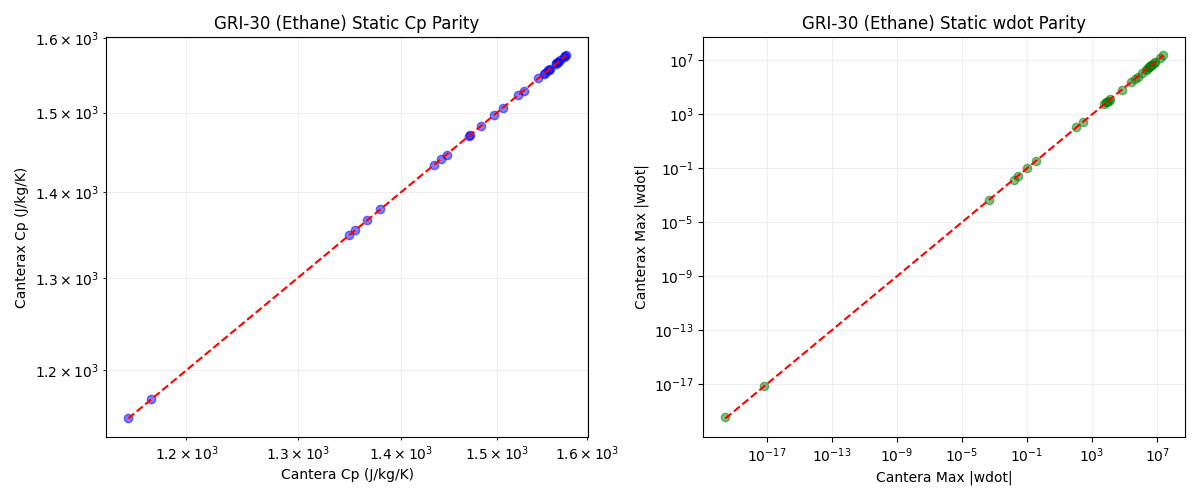
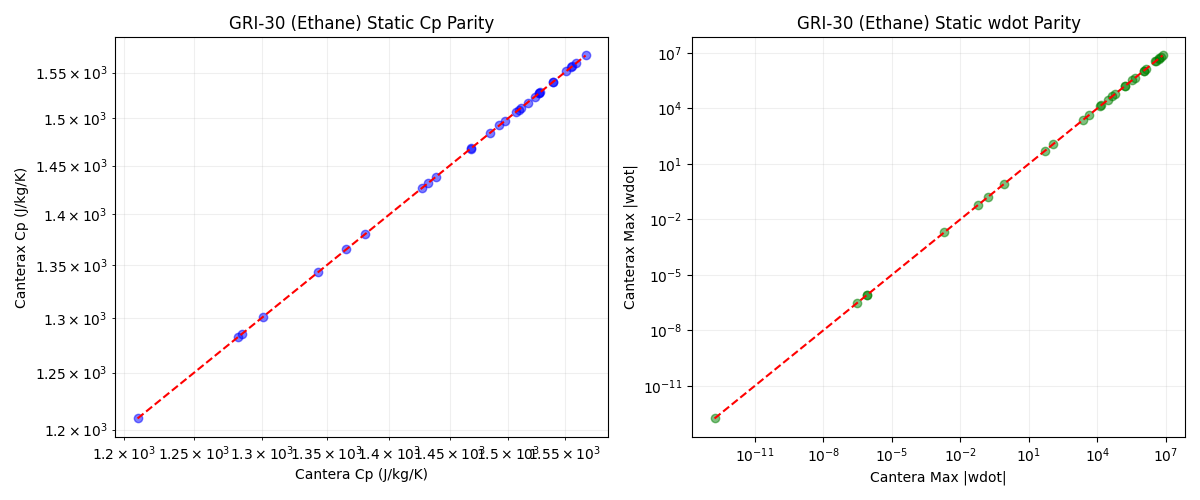
Fix: Lower concentration floor to reduce numerical noise in wdot and update validation plots

diff --git a/tests/trace_wdot_divergence.py b/tests/trace_wdot_divergence.py
@@ -1,0 +1,124 @@
+import os
+import sys
+import jax
+jax.config.update("jax_enable_x64", True)
+import jax.numpy as jnp
+import numpy as np
+import cantera as ct
+from tabulate import tabulate
+
+sys.path.append(os.path.abspath(os.path.join(os.path.dirname(__file__), "../src")))
+
+from canterax.loader import load_mechanism
+from canterax.solution import Solution
+from canterax.kinetics import compute_wdot
+
+def trace_divergence(mech_name, yaml_file, condition):
+    # Construct absolute path to yaml file if it's gri30.yaml which might not be local
+    if yaml_file == "gri30.yaml":
+        # Usually Cantera finds gri30.yaml automatically, but load_mechanism might need help if it uses strict paths
+        # But load_mechanism uses Cantera to parse, passing the string path.
+        pass
+
+    full_yaml_path = yaml_file
+    if not os.path.exists(full_yaml_path) and yaml_file == "gri30.yaml":
+        # Try to find where Cantera keeps it or just pass "gri30.yaml" assuming Cantera resolves it
+        # But load_mechanism might fail if it tries to open the file directly without Cantera's search path logic
+        # Let's hope load_mechanism handles "gri30.yaml" correctly (it uses ct.Solution)
+        pass
+
+    print(f"\n{'='*30}\nAnalyzing {mech_name}...\n{'='*30}")
+    
+    # Load
+    try:
+        sol_ct = ct.Solution(full_yaml_path)
+        mech_jt = load_mechanism(full_yaml_path)
+        sol_jt = Solution(full_yaml_path)
+    except Exception as e:
+        print(f"Failed to load mechanism: {e}")
+        return
+    
+    # Parse composition to dict to be safe
+    # But condition[2] is a string. Let's just pass it.
+    input_str = condition[2]
+    T, P = condition[0], condition[1]
+    
+    print(f"Setting CT state: {T} K, {P} Pa, {input_str}")
+    sol_ct.TPX = T, P, input_str
+    sol_jt.TPX = T, P, input_str
+
+    # Debug State
+    print(f"State: T={sol_ct.T:.1f} K, P={sol_ct.P:.1f} Pa")
+    h_idx = sol_ct.species_index("H") if "H" in sol_ct.species_names else -1
+    if h_idx >= 0:
+        print(f"H Y: {sol_ct.Y[h_idx]:.6e} X: {sol_ct.X[h_idx]:.6e}")
+        
+    wdot_jt, h_jt, cp_jt, rho_jt, _ = compute_wdot(sol_jt.T, sol_jt.P, sol_jt.Y, mech_jt)
+    wdot_ct = sol_ct.net_production_rates
+    
+    print(f"Max CT wdot: {np.max(np.abs(wdot_ct)):.6e}")
+    print(f"Max JT wdot: {np.max(np.abs(wdot_jt)):.6e}")
+    
+    # Check Thermo first
+    print(f"Thermo Check (Cp_mass):")
+    cp_ct = sol_ct.cp_mass
+    cp_err = abs(cp_ct - cp_jt) / cp_ct
+    print(f"  CT: {cp_ct:.6e}, JT: {cp_jt:.6e}, Rel Err: {cp_err:.2e}")
+    if cp_err > 1e-10:
+        print("  WARNING: High thermodynamic error!")
+
+    # Analyze wdot
+    table_data = []
+    headers = ["Species", "CT wdot", "JT wdot", "Abs Diff", "Rel Err"]
+    
+    max_rel_err = 0.0
+    
+    for k in range(sol_ct.n_species):
+        ct_val = wdot_ct[k]
+        jt_val = wdot_jt[k]
+        diff = abs(ct_val - jt_val)
+        
+        # Avoid division by zero
+        denom = max(abs(ct_val), 1e-25)
+        rel_err = diff / denom
+        
+        if rel_err > max_rel_err:
+            max_rel_err = rel_err
+            
+        # Filter:
+        # 1. Significant relative error (> 0.1%)
+        # 2. AND Absolute value is not effectively zero (e.g. > 1e-20)
+        # OR
+        # 3. User mentioned "lower end", so maybe show top errors even for small values
+        
+        if rel_err > 1e-3:
+             table_data.append([
+                 sol_ct.species_names[k],
+                 f"{ct_val:.4e}",
+                 f"{jt_val:.4e}",
+                 f"{diff:.4e}",
+                 f"{rel_err:.2e}"
+             ])
+
+    if table_data:
+        # Sort by Rel Err (last column)
+        # But Rel Err is a string now. Store as tuple then format?
+        # Re-sort using raw values
+        table_data.sort(key=lambda x: float(x[4]), reverse=True)
+        print("\nTop Deviations (> 0.1%):")
+        print(tabulate(table_data, headers=headers, tablefmt="simple"))
+    else:
+        print("\nNo deviations > 0.1% found.")
+        
+    print(f"\nMax Relative Error across all species: {max_rel_err:.2e}")
+
+if __name__ == "__main__":
+    # Test conditions from validation suite
+    # print("--- 1. Testing Standard Conditions (Likely Induction/Stalled) ---")
+    # trace_divergence("GRI-30 Propane (Standard)", "gri30.yaml", (1500.0, 101325.0, "C3H8:1, O2:5, N2:18.8"))
+    
+    # print("\n--- 2. Testing High Temperature (Active Autoignition) ---")
+    # trace_divergence("GRI-30 Propane (2500K)", "gri30.yaml", (2500.0, 101325.0, "C3H8:1, O2:5, N2:18.8"))
+    
+    print("\n--- 3. Testing Radical Seeded (Active Kinetics) ---")
+    trace_divergence("GRI-30 Propane (Seeded)", "gri30.yaml", (1500.0, 101325.0, "C3H8:1, O2:5, N2:18.8, H:0.01"))

diff --git a/tests/test_precision_logic.py b/tests/test_precision_logic.py
@@ -1,0 +1,33 @@
+import jax
+import jax.numpy as jnp
+import numpy as np
+import os
+
+def test_precision():
+    print(f"JAX x64 enabled: {jax.config.read('jax_enable_x64')}")
+    
+    kf = 1e15
+    conc = 0.0
+    
+    # Current implementation logic
+    def calc_wdot(floor):
+        safe_conc = jnp.maximum(conc, floor)
+        # Assuming nu=1 for simplicity
+        rop = kf * jnp.exp(jnp.log(safe_conc))
+        return rop
+
+    print(f"Floor 1e-30: {calc_wdot(1e-30)}")
+    print(f"Floor 1e-100: {calc_wdot(1e-100)}")
+    print(f"Floor 0.0: {calc_wdot(0.0)}")
+
+    # Check if XLA is doing anything funny with exp(log(x))
+    @jax.jit
+    def jit_wdot(floor):
+        return calc_wdot(floor)
+        
+    print(f"JIT Floor 1e-30: {jit_wdot(1e-30)}")
+    print(f"JIT Floor 0.0: {jit_wdot(0.0)}")
+
+if __name__ == "__main__":
+    jax.config.update("jax_enable_x64", True)
+    test_precision()

diff --git a/src/canterax/kinetics.py b/src/canterax/kinetics.py
@@ -106,10 +106,12 @@ def compute_wdot(T, P, Y, mech, use_experimental_sparse=False):
     # 3. Forward and reverse rate constants
     kf = compute_kf(T, conc, mech, use_experimental_sparse)
     kc = compute_Kc(T, mech)
-    kr = kf / (kc + 1e-100)
+    # Avoid div by zero for reverse rate if kc is tiny
+    kr = kf / jnp.maximum(kc, 1e-100)
     
     # 4. Rates of progress [log-space for efficient AD]
-    safe_conc = jnp.maximum(conc, 1e-30)
+    # Small floor to avoid log(0) while maintaining precision
+    safe_conc = jnp.maximum(conc, 1e-100)
     log_conc = jnp.log(safe_conc)
     
     # Pad log_conc with 0 for dummy indices (log(1.0) = 0)
